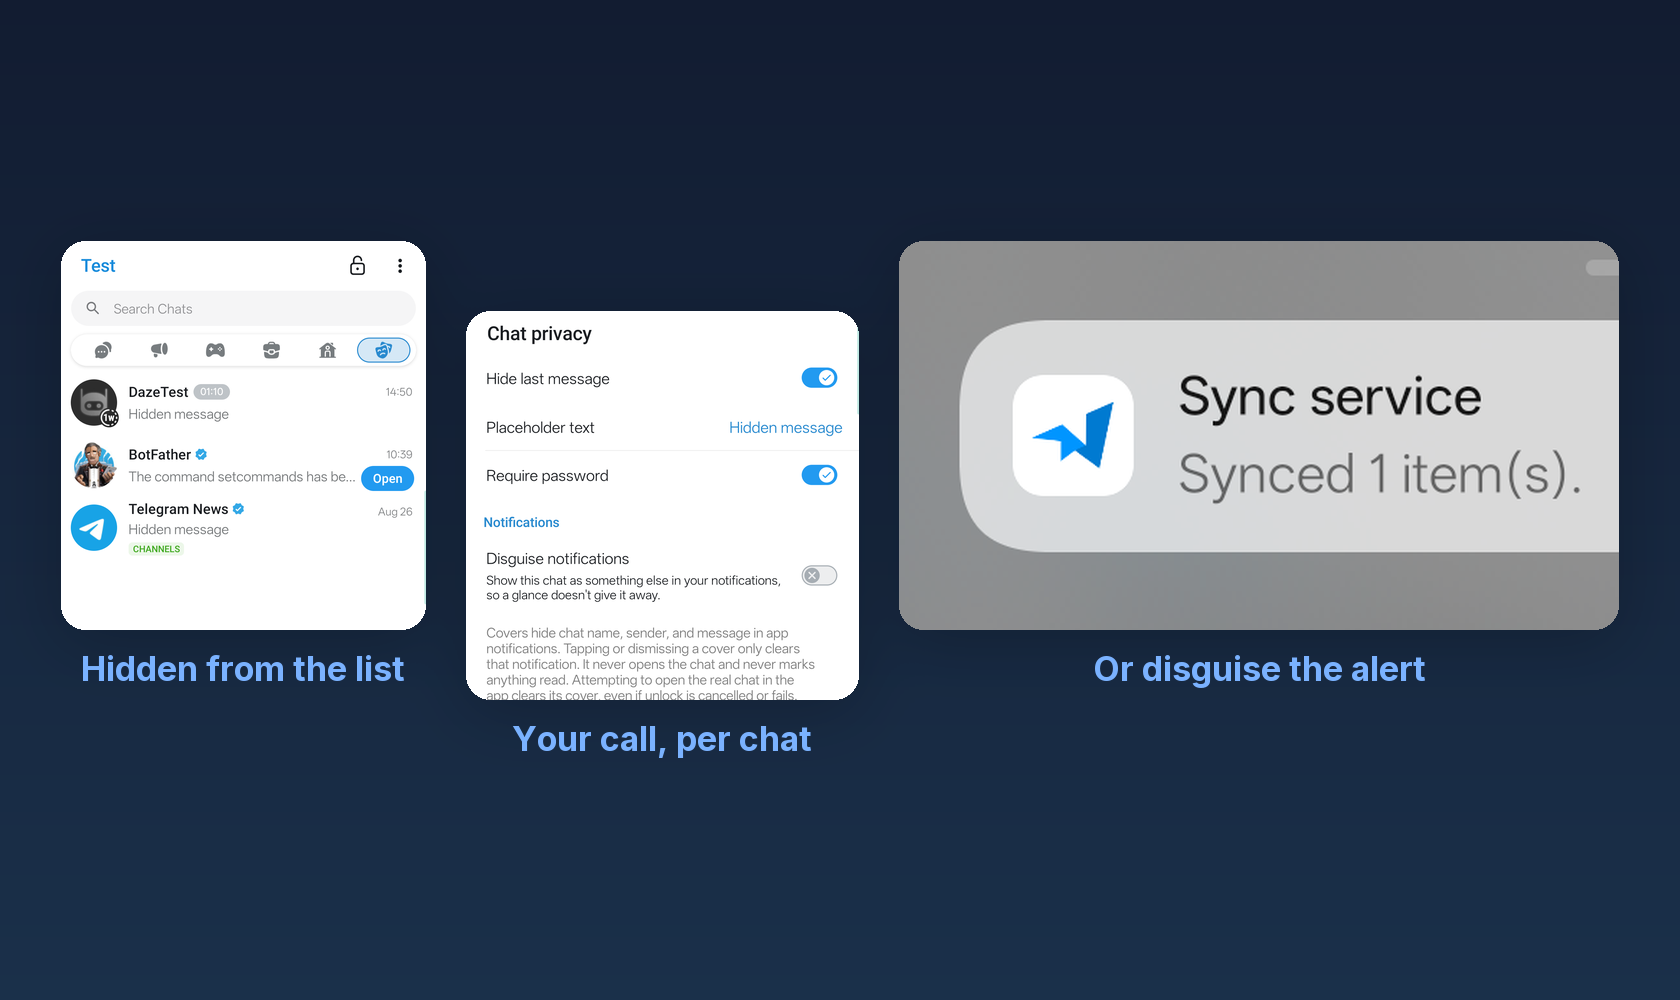
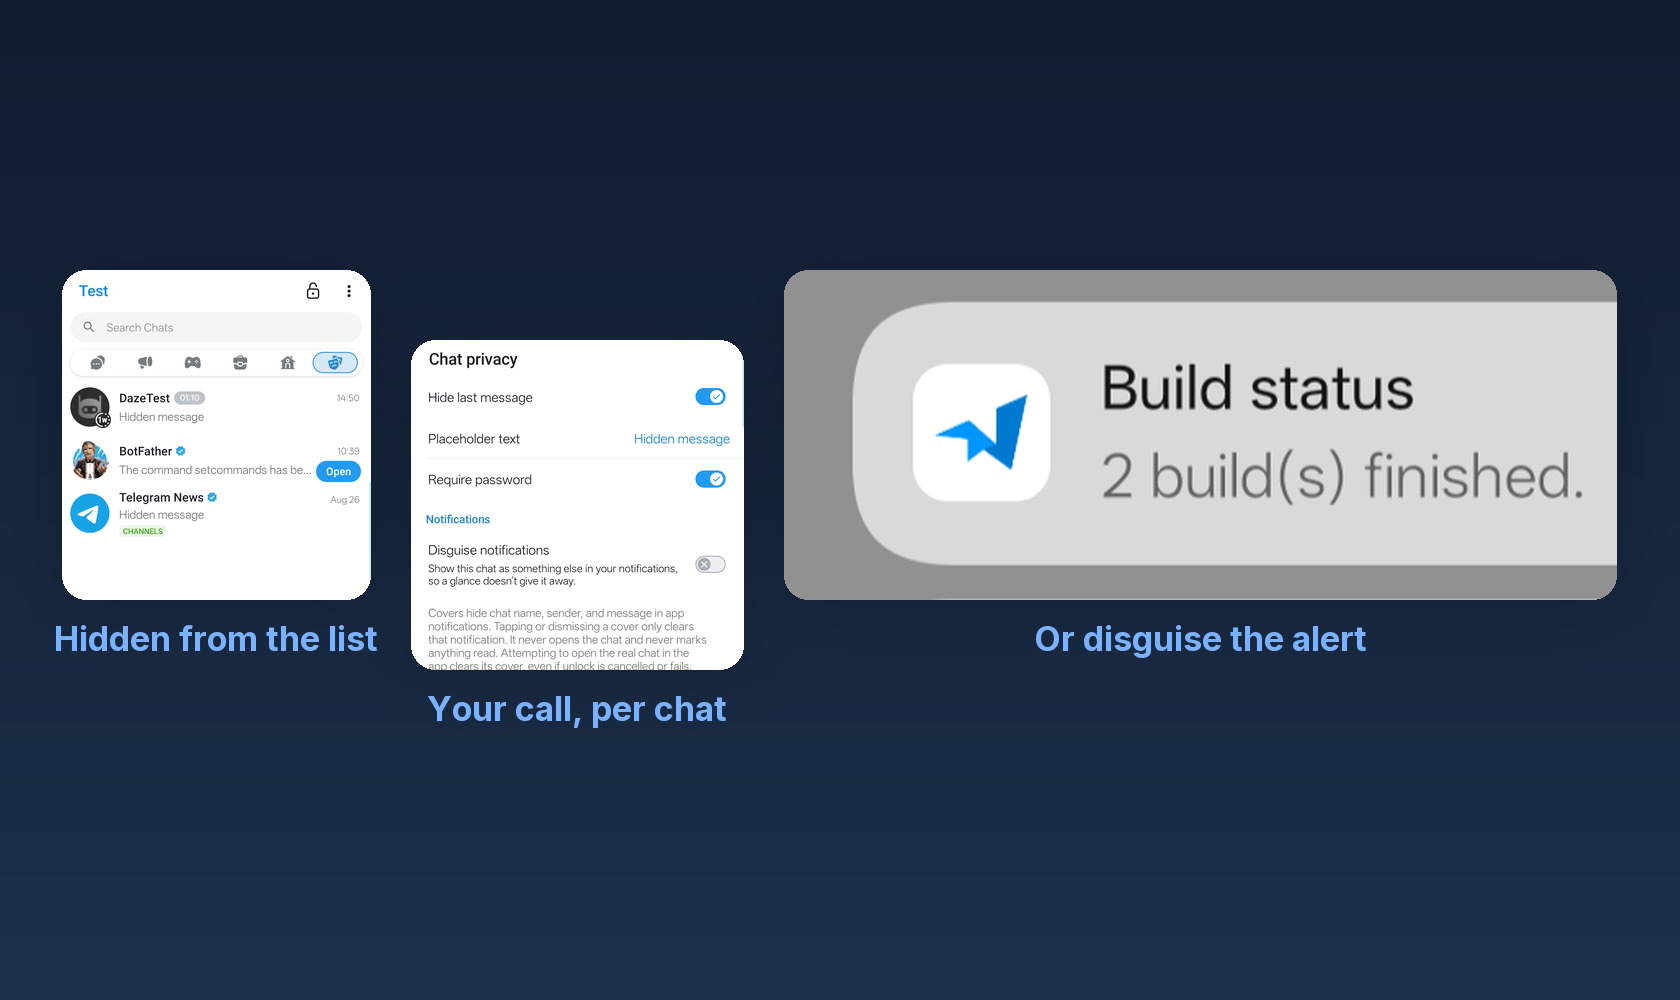
recrop video-messages scrub panel and chat-privacy notification #docs
The "Scrub the preview" panel showed only the round preview circle,
with no trace of the scrub filmstrip or its playhead -- the panel
illustrated nothing about the feature it was captioned for. Re-crop
to the bottom of the screen where the filmstrip, its trim handles,
mid-way playhead, and the two floating side buttons live. Keeping
the circle above it in the same crop (as originally sketched) leaves
so much dead vertical space between the two elements that the
filmstrip renders too small to read at GitHub's ~900px width;
dropping the circle and cropping tight to the control row instead is
what actually makes the playhead legible at that scale, verified by
downscaling the rendered wall to true 900px and inspecting it.

Separately, chat-privacy's disguise-notification source was replaced
with a tighter, re-shot 1080x202 capture reading "Build status" / "2
build(s) finished." (the previous 1080x270 "Sync service" capture is
gone). Re-derive its crop against the new source's actual dimensions
-- the old rectangle no longer fits -- widened enough that both lines
of the new notification text stay fully legible at true 900px width.
Update the README alt text for that wall to match the new notification
copy instead of the retired one. Bump README.md's blob-sha pin in
.github/sync/protected-paths.tsv to match.

Changed region(s): [[0.031, 0.217, 0.9905, 0.775]]

diff --git a/README.md b/README.md
@@ -29,7 +29,7 @@ This README covers the highlights. The full list, with what each one does, is in
 **Chat privacy:** Hide a chat's last message from the list, or lock the whole chat behind your passcode — your call, per chat. Turn on disguise notifications and incoming alerts show a cover instead of the real sender and message.
 
 <p align="center">
-<img src="docs/images/chat-privacy.png" alt="Three views of Dazegram's chat privacy: a hidden chat's placeholder text sitting beside a normal chat in the list, the chat privacy sheet with hide-last-message and require-password both switched on, and a disguised system notification showing a generic sync alert instead of the real sender and message.">
+<img src="docs/images/chat-privacy.png" alt="Three views of Dazegram's chat privacy: a hidden chat's placeholder text sitting beside a normal chat in the list, the chat privacy sheet with hide-last-message and require-password both switched on, and a disguised system notification showing a generic build-status alert instead of the real sender and message.">
 </p>
 
 **Video messages:** Record round video messages past Telegram's limit, with a warning buzz before it cuts and captions, once you've set up transcription.
